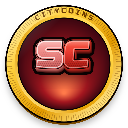
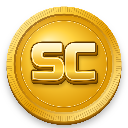
Moneda CityCoins completamente dorada con las siglas SC en relieve
Claude-Session: https://claude.ai/code/session_01DwYAqD77pap66newJ2Hoc8

diff --git a/branding/scripts/marca.js b/branding/scripts/marca.js
@@ -183,33 +183,44 @@ function banner(W = 1920, H = 1080, logo = L.principal) {
 save("banner-1920x1080", banner());
 save("banner-discord-960x540", banner(960, 540));
 
-// ---------------- 4b. Moneda CityCoins (marca nueva) ----------------
+// ---------------- 4b. Moneda CityCoins ----------------
+// Pedido del dueño: moneda completamente dorada, solo con las siglas "SC" en relieve (Russo One), también doradas.
+const GOLD_SC = { face: [[0, "#fff8d0"], [0.3, "#ffe07a"], [0.55, "#f2b21c"], [0.75, "#ffd84a"], [1, "#b87400"]], ext: ["#b07000", "#4a2a00"], rim: "rgba(255,250,215,.9)" };
 function coin(S = 1024) {
   const cv = createCanvas(S, S), c = cv.getContext("2d"), k = S / 1024, cx = S / 2, cy = S / 2, R = 460 * k;
-  const gold = (x0, y0, x1, y1) => { const g = c.createLinearGradient(x0, y0, x1, y1); g.addColorStop(0, "#fff6c2"); g.addColorStop(0.3, "#ffd23f"); g.addColorStop(0.6, "#e39b00"); g.addColorStop(0.8, "#ffe07a"); g.addColorStop(1, "#a86400"); return g; };
-  // canto
-  c.save(); c.shadowColor = "rgba(0,0,0,.55)"; c.shadowBlur = 40 * k; c.shadowOffsetY = 22 * k;
-  c.fillStyle = "#7a4a00"; c.beginPath(); c.arc(cx, cy + 26 * k, R, 0, 7); c.fill(); c.restore();
-  c.fillStyle = "#0a0202"; c.beginPath(); c.arc(cx, cy, R + 12 * k, 0, 7); c.fill();
-  c.fillStyle = gold(0, 0, S, S); c.beginPath(); c.arc(cx, cy, R, 0, 7); c.fill();
-  // estrías
-  c.strokeStyle = "rgba(110,60,0,.4)"; c.lineWidth = 5 * k;
-  for (let i = 0; i < 140; i++) { const a = i / 140 * Math.PI * 2; c.beginPath(); c.moveTo(cx + Math.cos(a) * R * 0.9, cy + Math.sin(a) * R * 0.9); c.lineTo(cx + Math.cos(a) * R * 0.985, cy + Math.sin(a) * R * 0.985); c.stroke(); }
-  // cara interior roja
-  c.fillStyle = gold(S, 0, 0, S); c.beginPath(); c.arc(cx, cy, R * 0.86, 0, 7); c.fill();
-  let g = c.createRadialGradient(cx, cy + R * 0.5, 10, cx, cy, R * 0.8); g.addColorStop(0, "#ff7a4a"); g.addColorStop(0.5, "#a3161f"); g.addColorStop(1, "#3a0610");
-  c.fillStyle = g; c.beginPath(); c.arc(cx, cy, R * 0.8, 0, 7); c.fill();
-  c.lineWidth = 8 * k; c.strokeStyle = "#0a0202"; c.stroke();
-  // texto en el borde
-  c.save(); c.font = `${58 * k}px Russo`; c.textAlign = "center"; c.textBaseline = "middle"; c.fillStyle = "#6b3a00";
-  const txt = "CITYCOINS", span = 1.05;
-  [...txt].forEach((ch, i) => { const a = -Math.PI / 2 - span / 2 + span * i / (txt.length - 1); c.save(); c.translate(cx + Math.cos(a) * R * 0.93, cy + Math.sin(a) * R * 0.93); c.rotate(a + Math.PI / 2); c.fillText(ch, 0, 0); c.restore(); });
-  c.restore();
-  // letras sc
-  const w = R * 1.32, h = SC.height * w / SC.width; c.drawImage(SC, cx - w / 2, cy - h / 2 - 8 * k, w, h);
-  // brillo
+  const lin = (x0, y0, x1, y1, stops) => { const g = c.createLinearGradient(x0, y0, x1, y1); for (const [o, col] of stops) g.addColorStop(o, col); return g; };
+  const GOLD = [[0, "#fff6c2"], [0.28, "#ffd23f"], [0.55, "#e39b00"], [0.78, "#ffe07a"], [1, "#a86400"]];
+  // sombra y canto (grosor de la moneda)
+  c.save(); c.shadowColor = "rgba(0,0,0,.55)"; c.shadowBlur = 40 * k; c.shadowOffsetY = 24 * k;
+  c.fillStyle = "#8a5400"; c.beginPath(); c.arc(cx, cy + 28 * k, R, 0, 7); c.fill(); c.restore();
+  for (let i = 28; i >= 0; i -= 2) { c.fillStyle = mix("#c98a10", "#6b3d00", i / 28); c.beginPath(); c.arc(cx, cy + i * k, R, 0, 7); c.fill(); }
+  // borde exterior con estrías
+  c.fillStyle = lin(0, 0, S, S, GOLD); c.beginPath(); c.arc(cx, cy, R, 0, 7); c.fill();
+  c.strokeStyle = "rgba(120,70,0,.35)"; c.lineWidth = 5 * k;
+  for (let i = 0; i < 150; i++) { const a = (i / 150) * Math.PI * 2; c.beginPath(); c.moveTo(cx + Math.cos(a) * R * 0.91, cy + Math.sin(a) * R * 0.91); c.lineTo(cx + Math.cos(a) * R * 0.99, cy + Math.sin(a) * R * 0.99); c.stroke(); }
+  // escalón hacia la cara: sombra arriba-izquierda y luz abajo-derecha (la cara queda hundida)
+  c.lineWidth = 16 * k; c.strokeStyle = lin(cx - R, cy - R, cx + R, cy + R, [[0, "#7a4600"], [0.5, "#c98a10"], [1, "#fff1a8"]]);
+  c.beginPath(); c.arc(cx, cy, R * 0.86, 0, 7); c.stroke();
+  // cara
+  let g = c.createRadialGradient(cx - R * 0.3, cy - R * 0.35, R * 0.05, cx, cy, R * 0.85);
+  g.addColorStop(0, "#fff3b8"); g.addColorStop(0.45, "#ffd23f"); g.addColorStop(1, "#d99200");
+  c.fillStyle = g; c.beginPath(); c.arc(cx, cy, R * 0.84, 0, 7); c.fill();
+  // anillo fino decorativo
+  c.lineWidth = 6 * k; c.strokeStyle = "rgba(150,90,0,.55)"; c.beginPath(); c.arc(cx, cy, R * 0.76, 0, 7); c.stroke();
+  c.lineWidth = 3 * k; c.strokeStyle = "rgba(255,248,210,.8)"; c.beginPath(); c.arc(cx, cy, R * 0.745, 0, 7); c.stroke();
+  // siglas SC en relieve, doradas
+  const sc = wordmark([{ text: "SC", pal: GOLD_SC }], { size: 420, depth: 22, dx: 0.45, dy: 1, outline: 0.1, outlineColor: "#5a3300", skew: 0, spacing: -8, halftone: false, shadow: false });
+  const w = R * 1.18, h = sc.height * w / sc.width;
+  // sombra: silueta de las letras teñida y desenfocada (con shadowBlur salía un recuadro)
+  // con margen alrededor: si no, el desenfoque se corta en los bordes de la imagen y deja un recuadro
+  const m = 80, sh = createCanvas(sc.width + m * 2, sc.height + m * 2), shc = sh.getContext("2d");
+  shc.drawImage(sc, m, m); shc.globalCompositeOperation = "source-in"; shc.fillStyle = "rgba(90,50,0,.6)"; shc.fillRect(0, 0, sh.width, sh.height);
+  const sk = w / sc.width;
+  c.save(); c.filter = `blur(${14 * k}px)`; c.drawImage(sh, cx - w / 2 - m * sk + 6 * k, cy - h / 2 - m * sk + 10 * k, sh.width * sk, sh.height * sk); c.restore();
+  c.drawImage(sc, cx - w / 2, cy - h / 2 - 6 * k, w, h);
+  // brillo general
   c.save(); c.beginPath(); c.arc(cx, cy, R, 0, 7); c.clip();
-  g = c.createLinearGradient(cx - R, cy - R, cx + R * 0.3, cy + R * 0.3); g.addColorStop(0, "rgba(255,255,255,.35)"); g.addColorStop(0.45, "rgba(255,255,255,0)");
+  g = c.createLinearGradient(cx - R, cy - R, cx + R * 0.3, cy + R * 0.3); g.addColorStop(0, "rgba(255,255,255,.4)"); g.addColorStop(0.45, "rgba(255,255,255,0)");
   c.fillStyle = g; c.fillRect(0, 0, S, S); c.restore();
   return cv;
 }

diff --git a/docs/discord/registro-2026-09-27.md b/docs/discord/registro-2026-09-27.md
@@ -94,3 +94,12 @@ Se comprobó antes de borrar que no tenían mensajes. Nombre, categoría, posici
 - **Descripción del bot** ("Acerca de mí"): qué es y sus comandos principales (`!vincular`, `!cuenta`, `!conectados`,
   `!topsamp`, `!fortuna`, `!comandos`).
 - **📈┆actualizaciones:** corregido `!perfil` (no existe) por `!cuenta`.
+
+## 10. Moneda CityCoins toda dorada
+
+A pedido del dueño la moneda es **completamente dorada**, con solo las siglas **SC** en relieve (Russo One), también
+doradas. Se cambió en todos lados:
+- `branding/marca/citycoin.png`, `citycoin-128.png`, `emoji-citycoin.png` y los paquetes `citycoins-100/500/1000.png`.
+- Emoji `:citycoin:` reemplazado (el nuevo tiene otro ID) y actualizado en los mensajes de 📈┆actualizaciones,
+  📊┆economia, 💎┆citycoins y 🐱┆emojis. La miniatura de 💎┆citycoins también es la moneda nueva.
+- Pendiente del dueño: volver a subir a Tebex las imágenes de los paquetes.

diff --git a/branding/README.md b/branding/README.md
@@ -54,7 +54,8 @@ Probar siempre a 32 px (barra lateral de Discord).
 ## Banners y otras piezas
 
 - `marca/banner-1920x1080.png` y `marca/banner-discord-960x540.png`.
-- Tienda Tebex: moneda **CityCoins** con la marca (oro con el "sc") y paquetes 100 / 500 / 1000
+- Tienda Tebex: moneda **CityCoins** **completamente dorada**, solo con las siglas **"SC" en relieve** (Russo One,
+  mayúsculas, también doradas). Lo pidió así el dueño: nada de rosa/rojo en la moneda. Paquetes 100 / 500 / 1000
   (`marca/citycoin*.png`, `marca/citycoins-*.png`, generados en `scripts/marca.js`). La versión anterior está en `historial/`.
 - Emojis del servidor (128 px): `marca/emoji-*.png` → `:sampcity:`, `:citycoin:`, `:samp:`, `:city:`.
 - **Ícono del servidor (actual):** `marca/avatar-bot-A-512.png` ("sc" sobre el atardecer, circular). Lo eligió el dueño.
